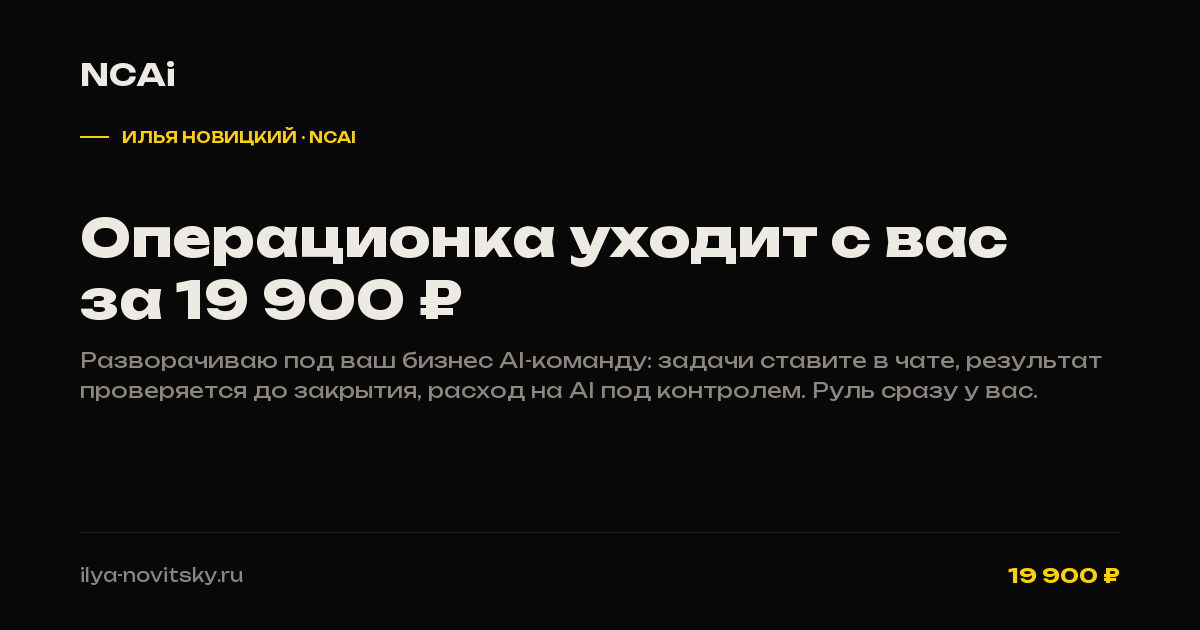
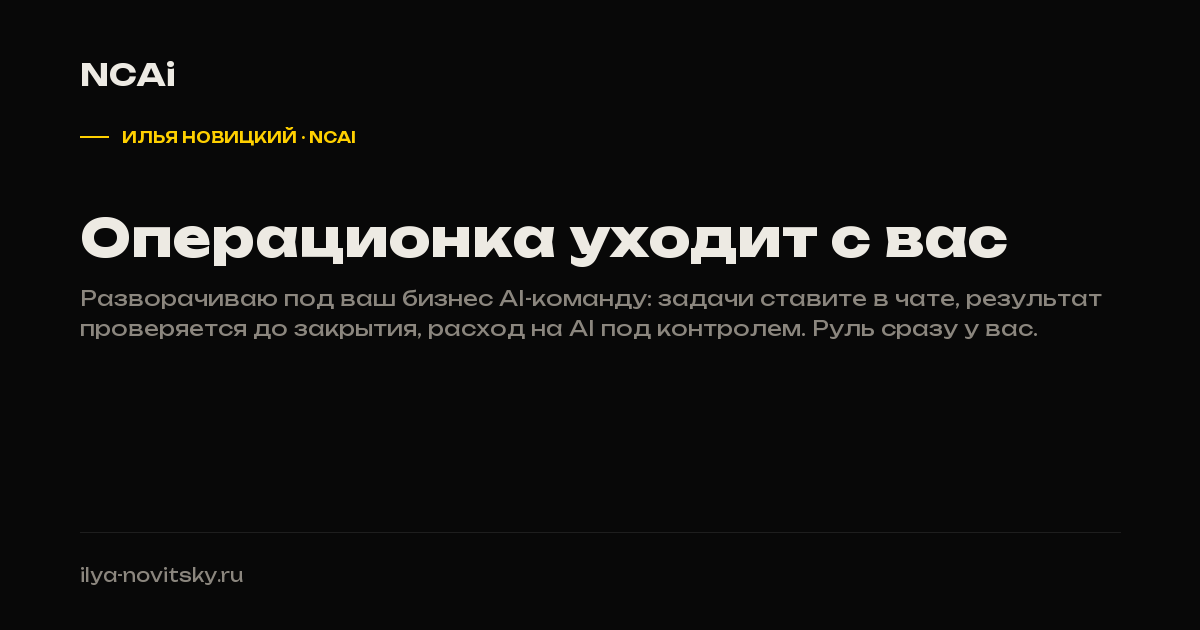
feat(копирайт): убрать цены из главной и первых экранов /raspakovka, /ai-training
Илья: цена в заголовке/шапке пугает раньше, чем человек успевает
дочитать до сути. Логика правки — мотивация перейти на страницу,
а цену показывать уже там, в контексте (ROI-разбор, оффер-блок),
не как первый заголовок.

- Главная: с карточек-тизеров (распаковка/обучение/портфолио),
  из блока «Продукты» и из финального closing-блока убрана цена
  в тексте — сумма заменена на честный, но не пугающий формат
  («Разово + подписка», «1 месяц», «Бесплатный разбор →
  распаковка агентства»). RU и EN.
- /raspakovka: H1, хиро-статистика и два H2 («19 900 ₽ — не
  трата», «Что вы получаете за 19 900 ₽») лишились цены в
  заголовке. ROI-сравнение и таблица оффера ниже по странице —
  не трогал, это и есть содержательная встреча с ценой в
  контексте. <title>/og:title тоже без цены — иначе цена видна
  ещё в поиске/превью ссылки, до перехода.
- /ai-training: то же самое — хиро-метка «Цена» и H2 «Что ты
  получаешь за 70–80к» лишились цены, meta description тоже.
- og-картинки raspakovka.png/ai-training.png/portfolio.png
  перегенерированы без цены в заголовке/плашке, тем же скриптом.

Changed region(s): [[0.0617, 0.4222, 0.925, 0.6333], [0.8325, 0.9048, 0.9558, 0.9349]]

diff --git a/src/lib/home-sections.ts b/src/lib/home-sections.ts
@@ -35,7 +35,7 @@ export const HERO_HTML = `<!-- HERO -->
           <div class="pc-body">
             <div class="pc-label">Распаковка агентства</div>
             <div class="pc-title">Цифровой отдел за 4 шага</div>
-            <div class="pc-sub">Распаковка в боте · свои AI-агенты, доска задач, руль сразу у вас · 19 900 ₽</div>
+            <div class="pc-sub">Распаковка в боте · свои AI-агенты, доска задач, руль сразу у вас</div>
           </div>
           <div class="pc-arr">→</div>
         </a>
@@ -43,7 +43,7 @@ export const HERO_HTML = `<!-- HERO -->
           <div class="pc-icon">${icon("bolt", "var(--c)")}</div>
           <div class="pc-body">
             <div class="pc-label">Обучение AI</div>
-            <div class="pc-title">1 месяц · 70–80к ₽</div>
+            <div class="pc-title">1 месяц · готовый продукт</div>
             <div class="pc-sub">2 сессии + распаковка агентства, создаёшь реальный продукт с нуля</div>
           </div>
           <div class="pc-arr">→</div>
@@ -65,7 +65,7 @@ export const HERO_HTML = `<!-- HERO -->
           <div class="pc-body">
             <div class="pc-label">Основное · Вход в бизнес</div>
             <div class="pc-title">Месяц работы вместе</div>
-            <div class="pc-sub">Сначала бесплатно показываю результат на вашей задаче. Зашло — захожу на месяц: от 200 000 ₽</div>
+            <div class="pc-sub">Сначала бесплатно показываю результат на вашей задаче. Зашло — захожу на месяц работы вместе.</div>
           </div>
           <div class="pc-arr">→</div>
         </a>
@@ -233,8 +233,8 @@ export const PRODUCTS_HTML = `<!-- PRODUCTS -->
       </div>
       <ol class="vz-fn-steps">
         <li class="vz-fn-step"><b>БЕСПЛАТНО</b><span><i>Книга «Нейро-Воронка».</i> 6 глав и 30 подглав о том, как воронка приносит заявки. Читается прямо на сайте.</span></li>
-        <li class="vz-fn-step"><b>0 ₽</b><span><i>Демонстрация на вашей задаче.</i> Беру реальную задачу и отдаю готовые артефакты за 1–3 дня. Не зашло — расходимся.</span></li>
-        <li class="vz-fn-step"><b>ОТ 200 000 ₽</b><span><i>Месяц работы вместе.</i> Захожу в проект с методом NCAi, обучаю вашего человека и работаю рядом с ним.</span></li>
+        <li class="vz-fn-step"><b>ДЕМО</b><span><i>Демонстрация на вашей задаче.</i> Беру реальную задачу и отдаю готовые артефакты за 1–3 дня. Не зашло — расходимся.</span></li>
+        <li class="vz-fn-step"><b>ВМЕСТЕ</b><span><i>Месяц работы вместе.</i> Захожу в проект с методом NCAi, обучаю вашего человека и работаю рядом с ним.</span></li>
         <li class="vz-fn-step"><b>ДАЛЬШЕ</b><span><i>Следующий цикл — по желанию.</i> У руля остаётся ваш сотрудник, а не подрядчик.</span></li>
       </ol>
     </div>
@@ -256,7 +256,7 @@ export const PRODUCTS_HTML = `<!-- PRODUCTS -->
           </div>
         </div>
         <div class="prod-bottom">
-          <div class="prod-price"><span>Разово</span>19 900 ₽</div>
+          <div class="prod-price"><span>Формат</span>Разово + подписка</div>
           <div class="prod-link">Подробнее →</div>
         </div>
       </a>
@@ -276,7 +276,7 @@ export const PRODUCTS_HTML = `<!-- PRODUCTS -->
           </div>
         </div>
         <div class="prod-bottom">
-          <div class="prod-price"><span>Цена</span>70–80к ₽ / месяц</div>
+          <div class="prod-price"><span>Формат</span>1 месяц</div>
           <div class="prod-link">Подробнее →</div>
         </div>
       </a>
@@ -514,7 +514,7 @@ export const CLOSING_HTML = `<!-- CLOSING CTA -->
   <div class="wrap">
     <span class="sec-tag rv is-center">Готов начать</span>
     <h2 class="closing-h2 rv d1">Не разговор «про AI вообще» —<br>конкретный первый шаг</h2>
-    <p class="closing-lead rv d1">Три шага — от разбора за 190 ₽ до рабочего агентства. Всё ведёт в одну систему, ничего не платится дважды.</p>
+    <p class="closing-lead rv d1">Три шага — от бесплатного разбора до рабочего агентства. Всё ведёт в одну систему, ничего не платится дважды.</p>
 
     <div class="closing-paths rv d2">
       <a href="/book" class="closing-path">
@@ -525,12 +525,12 @@ export const CLOSING_HTML = `<!-- CLOSING CTA -->
       <a href="/raspakovka" class="closing-path cp-main">
         <div class="cp-n">1</div>
         <div class="cp-t">Распаковка агентства</div>
-        <div class="cp-s">Разбор 190 ₽ → распаковка 19 900 ₽ — руль сразу у вас</div>
+        <div class="cp-s">Бесплатный разбор → распаковка агентства — руль сразу у вас</div>
       </a>
       <a href="/ai-training" class="closing-path">
         <div class="cp-n">2</div>
         <div class="cp-t">Обучение AI</div>
-        <div class="cp-s">1 месяц · 2 сессии — создаёшь реальный продукт с нуля · 70–80к ₽</div>
+        <div class="cp-s">1 месяц · 2 сессии — создаёшь реальный продукт с нуля</div>
       </a>
     </div>
 
@@ -578,7 +578,7 @@ export const HERO_HTML_EN = `<!-- HERO -->
           <div class="pc-body">
             <div class="pc-label">Agency Unboxing</div>
             <div class="pc-title">A digital department in 4 steps</div>
-            <div class="pc-sub">Unboxed in the bot · your own AI agents, a task board, control stays with you from day one · 19 900 ₽</div>
+            <div class="pc-sub">Unboxed in the bot · your own AI agents, a task board, control stays with you from day one</div>
           </div>
           <div class="pc-arr">→</div>
         </a>
@@ -586,7 +586,7 @@ export const HERO_HTML_EN = `<!-- HERO -->
           <div class="pc-icon">${icon("bolt", "var(--c)")}</div>
           <div class="pc-body">
             <div class="pc-label">AI Training</div>
-            <div class="pc-title">1 month · 70–80K ₽</div>
+            <div class="pc-title">1 month · a finished product</div>
             <div class="pc-sub">2 sessions + agency unboxing — you build a real product from scratch</div>
           </div>
           <div class="pc-arr">→</div>
@@ -608,7 +608,7 @@ export const HERO_HTML_EN = `<!-- HERO -->
           <div class="pc-body">
             <div class="pc-label">Main · Joining your business</div>
             <div class="pc-title">A month of work together</div>
-            <div class="pc-sub">First I show a result on your task for free. If it lands, I join for a month: from 200,000 ₽</div>
+            <div class="pc-sub">First I show a result on your task for free. If it lands, I join for a month of work together.</div>
           </div>
           <div class="pc-arr">→</div>
         </a>
@@ -776,8 +776,8 @@ export const PRODUCTS_HTML_EN = `<!-- PRODUCTS -->
       </div>
       <ol class="vz-fn-steps">
         <li class="vz-fn-step"><b>FREE</b><span><i>The Neuro-Funnel book.</i> 6 chapters and 30 subchapters on how a funnel actually brings in leads. Read it right here.</span></li>
-        <li class="vz-fn-step"><b>$0</b><span><i>A demonstration on your task.</i> I take a real task and hand back finished artifacts in 1–3 days. If it doesn't land, we part ways.</span></li>
-        <li class="vz-fn-step"><b>FROM 200,000 ₽</b><span><i>A month of work together.</i> I join the project with NCAi's method, train your person and work alongside them.</span></li>
+        <li class="vz-fn-step"><b>DEMO</b><span><i>A demonstration on your task.</i> I take a real task and hand back finished artifacts in 1–3 days. If it doesn't land, we part ways.</span></li>
+        <li class="vz-fn-step"><b>TOGETHER</b><span><i>A month of work together.</i> I join the project with NCAi's method, train your person and work alongside them.</span></li>
         <li class="vz-fn-step"><b>AFTER</b><span><i>Another cycle, optional.</i> Your employee stays at the wheel, not a contractor.</span></li>
       </ol>
     </div>
@@ -799,7 +799,7 @@ export const PRODUCTS_HTML_EN = `<!-- PRODUCTS -->
           </div>
         </div>
         <div class="prod-bottom">
-          <div class="prod-price"><span>One-time</span>19 900 ₽</div>
+          <div class="prod-price"><span>Format</span>One-time + subscription</div>
           <div class="prod-link">Learn more →</div>
         </div>
       </a>

diff --git a/src/lib/consulting-sections.ts b/src/lib/consulting-sections.ts
@@ -8,7 +8,7 @@ export const HERO_HTML = `<!-- HERO · ТИЗЕРНЫЙ ХУК -->
   <div class="hgrid"></div><div class="hgl"></div>
   <div class="hleft">
     <div class="hew"><span class="hdot"></span>Агентство в коробке · распаковка + подписка</div>
-    <h1 class="hh1">Операционка уходит с вас.<span class="acc">Забираем в агентство за 19 900 ₽.</span></h1>
+    <h1 class="hh1">Операционка уходит с вас.<span class="acc">Забираем её в агентство.</span></h1>
     <p class="hsub">Не «доступ к нейросети», а настоящий движок: приёмка задач, пир-ревью, ночной драйвер 24/7. Готовая AI-команда с ролями, доской задач и контролем расходов. Руль сразу у вас — для владельца бизнеса и для новой профессии менеджера AI-агентства.</p>
     <div class="hacts">
       <a href="https://t.me/NCAi_Agency_bot" class="bp" target="_blank" rel="noopener noreferrer">Записаться на распаковку <svg width="14" height="14" viewBox="0 0 14 14" fill="none"><path d="M2 7h10M8 3.5L11.5 7 8 10.5" stroke="currentColor" stroke-width="1.5" stroke-linecap="round" stroke-linejoin="round"/></svg></a>
@@ -16,7 +16,7 @@ export const HERO_HTML = `<!-- HERO · ТИЗЕРНЫЙ ХУК -->
     </div>
     <div class="hstats">
       <div class="hstat"><div class="hstatn">4<span class="sfx">шага</span></div><div class="hstatl">Распаковка — агентство готово</div></div>
-      <div class="hstat"><div class="hstatn">19 900<span class="sfx">₽</span></div><div class="hstatl">Разово за распаковку, дальше — подписка</div></div>
+      <div class="hstat"><div class="hstatn">24<span class="sfx">/7</span></div><div class="hstatl">Агентство на связи, а не по расписанию</div></div>
       <div class="hstat"><div class="hstatn">1<span class="sfx">–5</span></div><div class="hstatl">AI-агентов под ваши задачи</div></div>
       <div class="hstat"><div class="hstatn"><span class="cnt" data-to="100">0</span><span class="sfx">%</span></div><div class="hstatl">Прозрачность: всё в панели у вас</div></div>
     </div>
@@ -296,7 +296,7 @@ export const ROI_HTML = `<!-- ROI · ПОЧЕМУ ЭТО ОКУПАЕТСЯ -->
     <div class="roi-head">
       <div>
         <span class="lb rv">Почему это окупается</span>
-        <h2 class="sh2 rv d1">19 900 ₽ — не трата.<br>Это экономия миллионов.</h2>
+        <h2 class="sh2 rv d1">Это не трата.<br>Это экономия миллионов.</h2>
       </div>
       <p class="roi-tx rv d2">Вы платите не за «ботов в Telegram» и не за красивые консультации. Вы платите за то, чтобы <strong>ближайшие полгода не отдавать миллионы за зарплаты</strong> — и запускать свои продукты за <strong>дни, а не за месяцы</strong>. Это не расход. Это ROI.</p>
     </div>
@@ -499,7 +499,7 @@ export const OFFER_HTML = `<!-- 8 · ОФФЕР -->
   <div class="w">
     <div class="ofin">
       <span class="lb rv" style="justify-content:center">Оффер · распаковка</span>
-      <h2 class="ofh2 rv d1">Что вы получаете<br>за 19 900 ₽</h2>
+      <h2 class="ofh2 rv d1">Что вы получаете</h2>
       <p class="ofsub rv d2">Лестница входа: <b>разбор 190 ₽</b> (квиз в боте, без риска) → <b>распаковка 19 900 ₽</b> (первый месяц подписки включён) → <b>подписка 4 900 ₽/мес</b>. Прозрачно, без скрытых платежей.</p>
       <div class="ofcard rv d2">
         <p style="font-family:var(--fm);font-size:.63rem;letter-spacing:.14em;text-transform:uppercase;color:var(--t3);margin-bottom:1.5rem">Что входит в распаковку</p>
@@ -763,7 +763,7 @@ export const HERO_HTML_EN = `<!-- HERO -->
   <div class="hgrid"></div><div class="hgl"></div>
   <div class="hleft">
     <div class="hew"><span class="hdot"></span>Agency in a box · unboxing + subscription</div>
-    <h1 class="hh1">The operational load leaves you.<span class="acc">We turn it into an agency for 19,900 ₽.</span></h1>
+    <h1 class="hh1">The operational load leaves you.<span class="acc">We turn it into an agency.</span></h1>
     <p class="hsub">Not "access to a neural network," but a real engine: task intake, peer review, a 24/7 night-shift driver. A ready AI team with roles, a task board and spend control. You're in control from day one — for a business owner and for the new profession of AI-agency manager alike.</p>
     <div class="hacts">
       <a href="https://t.me/NCAi_Agency_bot" class="bp" target="_blank" rel="noopener noreferrer">Book an unboxing <svg width="14" height="14" viewBox="0 0 14 14" fill="none"><path d="M2 7h10M8 3.5L11.5 7 8 10.5" stroke="currentColor" stroke-width="1.5" stroke-linecap="round" stroke-linejoin="round"/></svg></a>
@@ -771,7 +771,7 @@ export const HERO_HTML_EN = `<!-- HERO -->
     </div>
     <div class="hstats">
       <div class="hstat"><div class="hstatn">4<span class="sfx">steps</span></div><div class="hstatl">Unboxing — agency ready</div></div>
-      <div class="hstat"><div class="hstatn">19,900<span class="sfx">₽</span></div><div class="hstatl">One-time for unboxing, then a subscription</div></div>
+      <div class="hstat"><div class="hstatn">24<span class="sfx">/7</span></div><div class="hstatl">The agency is on call, not on a schedule</div></div>
       <div class="hstat"><div class="hstatn">1<span class="sfx">–5</span></div><div class="hstatl">AI agents built for your tasks</div></div>
       <div class="hstat"><div class="hstatn"><span class="cnt" data-to="100">0</span><span class="sfx">%</span></div><div class="hstatl">Transparent: everything's in your panel</div></div>
     </div>
@@ -1051,7 +1051,7 @@ export const ROI_HTML_EN = `<!-- ROI -->
     <div class="roi-head">
       <div>
         <span class="lb rv">Why it pays for itself</span>
-        <h2 class="sh2 rv d1">19,900 ₽ isn't a cost.<br>It's a savings of millions.</h2>
+        <h2 class="sh2 rv d1">It isn't a cost.<br>It's a savings of millions.</h2>
       </div>
       <p class="roi-tx rv d2">You're not paying for "Telegram bots" or nice-sounding consultations. You're paying so that <strong>you don't hand over millions in salaries over the next six months</strong> — and so you can launch products in <strong>days, not months</strong>. This isn't a cost. It's ROI.</p>
     </div>
@@ -1254,7 +1254,7 @@ export const OFFER_HTML_EN = `<!-- THE OFFER -->
   <div class="w">
     <div class="ofin">
       <span class="lb rv" style="justify-content:center">Offer · unboxing</span>
-      <h2 class="ofh2 rv d1">What you get<br>for 19,900 ₽</h2>
+      <h2 class="ofh2 rv d1">What you get</h2>
       <p class="ofsub rv d2">An entry ladder: <b>a 190 ₽ assessment</b> (a quiz in the bot, no risk) → <b>a 19,900 ₽ unboxing</b> (first month of subscription included) → <b>a 4,900 ₽/mo subscription</b>. Transparent, no hidden fees.</p>
       <div class="ofcard rv d2">
         <p style="font-family:var(--fm);font-size:.63rem;letter-spacing:.14em;text-transform:uppercase;color:var(--t3);margin-bottom:1.5rem">What's included in the unboxing</p>

diff --git a/src/lib/ai-training-sections.ts b/src/lib/ai-training-sections.ts
@@ -21,7 +21,7 @@ export const HERO_HTML = `<!-- HERO · ТИЗЕРНЫЙ ХУК -->
       <div class="ait-hero-meta">
         <div class="ait-hm">Формат<span>2 сессии + распаковка</span></div>
         <div class="ait-hm">Длительность<span>1 месяц на связи</span></div>
-        <div class="ait-hm">Цена<span>70–80к ₽</span></div>
+        <div class="ait-hm">Итог<span>Готовый продукт</span></div>
         <div class="ait-hm">Группа<span>1–2 человека</span></div>
       </div>
     </div>
@@ -256,7 +256,7 @@ export const OFFER_HTML = `<!-- 7 · ОФФЕР -->
 <section id="inside" class="ait-alt">
   <div class="w ait-price-wrap">
     <span class="ait-sec-tag rv" style="justify-content:center">Оффер</span>
-    <h2 class="ait-sec-h2 rv d1" style="text-align:center">Что ты получаешь за 70–80к</h2>
+    <h2 class="ait-sec-h2 rv d1" style="text-align:center">Что ты получаешь</h2>
     <div class="ait-price-card rv d2">
       <div class="ait-price-top">
         <div>
@@ -380,7 +380,7 @@ export const HERO_HTML_EN = `<!-- HERO -->
       <div class="ait-hero-meta">
         <div class="ait-hm">Format<span>2 sessions + unboxing</span></div>
         <div class="ait-hm">Duration<span>1 month on hand</span></div>
-        <div class="ait-hm">Price<span>70–80K ₽</span></div>
+        <div class="ait-hm">Outcome<span>A finished product</span></div>
         <div class="ait-hm">Group<span>1–2 people</span></div>
       </div>
     </div>
@@ -615,7 +615,7 @@ export const OFFER_HTML_EN = `<!-- THE OFFER -->
 <section id="inside" class="ait-alt">
   <div class="w ait-price-wrap">
     <span class="ait-sec-tag rv" style="justify-content:center">The offer</span>
-    <h2 class="ait-sec-h2 rv d1" style="text-align:center">What you get for 70–80K</h2>
+    <h2 class="ait-sec-h2 rv d1" style="text-align:center">What you get</h2>
     <div class="ait-price-card rv d2">
       <div class="ait-price-top">
         <div>

diff --git a/src/app/ai-training/page.tsx b/src/app/ai-training/page.tsx
@@ -3,7 +3,7 @@ import AiTrainingPage from "@/components/pages/AiTrainingPage";
 
 const TITLE = "За месяц — готовый продукт, а не конспект";
 const DESCRIPTION =
-	"Собираем ваш реальный проект руками: сайт, книгу или автоматизацию. Две живые сессии, месяц на связи и распаковка агентства в программе. 70–80к ₽.";
+	"Собираем ваш реальный проект руками: сайт, книгу или автоматизацию. Две живые сессии, месяц на связи и распаковка агентства в программе.";
 
 export const metadata: Metadata = {
   title: TITLE,

diff --git a/src/app/raspakovka/page.tsx b/src/app/raspakovka/page.tsx
@@ -1,7 +1,7 @@
 import type { Metadata } from "next";
 import RaspakovkaPage from "@/components/pages/RaspakovkaPage";
 
-const TITLE = "Операционка уходит с вас за 19 900 ₽";
+const TITLE = "Операционка уходит с вас";
 const DESCRIPTION =
 	"Разворачиваю под ваш бизнес AI-команду: задачи ставите в чате, результат проверяется до закрытия, расход на AI под контролем. Руль сразу у вас.";
 
